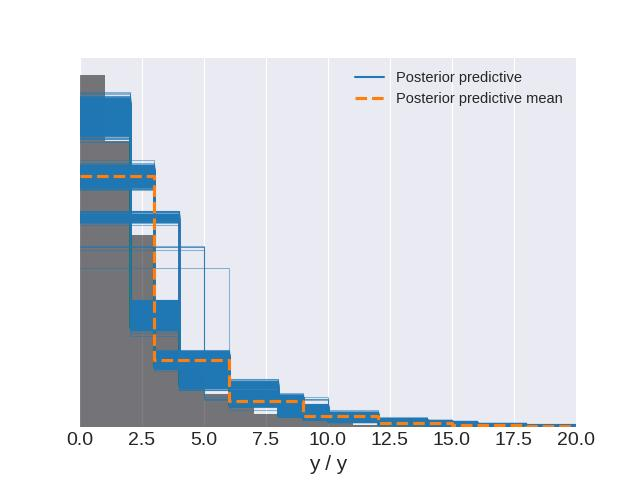
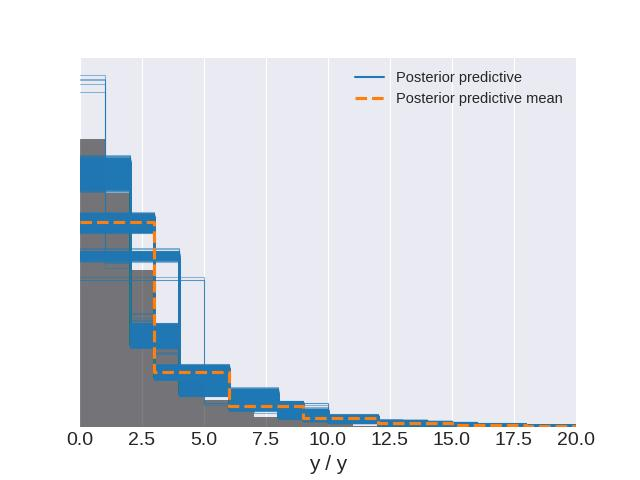
Improvement count example

Changed region(s): [[0.125, 0.1562, 0.9062, 0.9062]]

diff --git a/_site/count_data/index.html b/_site/count_data/index.html
@@ -238,10 +238,44 @@ Bernoulli process with success probability $p$ before a given number of subseque
 <p>As an example, I used this model to investigate the number of retweets of a particular
 twitter account:</p>
 
+<div class="language-python highlighter-rouge"><div class="highlight"><pre class="highlight"><code><span class="n">df_twitter</span> <span class="o">=</span> <span class="n">pd</span><span class="p">.</span><span class="nf">read_csv</span><span class="p">(</span><span class="sh">'</span><span class="s">data/data_twitter.csv</span><span class="sh">'</span><span class="p">)</span>
+<span class="n">fig</span> <span class="o">=</span> <span class="n">plt</span><span class="p">.</span><span class="nf">figure</span><span class="p">()</span>
+<span class="n">ax</span> <span class="o">=</span> <span class="n">fig</span><span class="p">.</span><span class="nf">add_subplot</span><span class="p">()</span>
+<span class="n">sns</span><span class="p">.</span><span class="nf">histplot</span><span class="p">(</span><span class="n">data</span><span class="o">=</span><span class="n">df_tweets</span><span class="p">,</span> <span class="n">x</span><span class="o">=</span><span class="sh">"</span><span class="s">retweets_count</span><span class="sh">"</span><span class="p">,</span> <span class="n">ax</span><span class="o">=</span><span class="n">ax</span><span class="p">,</span> <span class="n">bins</span> <span class="o">=</span> <span class="n">np</span><span class="p">.</span><span class="nf">arange</span><span class="p">(</span><span class="mi">0</span><span class="p">,</span> <span class="mi">30</span><span class="p">))</span>
+<span class="n">ax</span><span class="p">.</span><span class="nf">set_xlim</span><span class="p">([</span><span class="mi">0</span><span class="p">,</span> <span class="mi">30</span><span class="p">])</span>
+</code></pre></div></div>
+
 <p><img src="/docs/assets/images/twitter_data.jpg" alt="Hurricanes ppc" /></p>
 
-<div class="language-python highlighter-rouge"><div class="highlight"><pre class="highlight"><code><span class="n">df_twitter</span> <span class="o">=</span> <span class="n">pd</span><span class="p">.</span><span class="nf">read_csv</span><span class="p">(</span><span class="sh">'</span><span class="s">data/data_twitter.csv</span><span class="sh">'</span><span class="p">)</span>
-<span class="k">with</span> <span class="n">pm</span><span class="p">.</span><span class="nc">Model</span><span class="p">()</span> <span class="k">as</span> <span class="n">negbin</span><span class="p">:</span>
+<p>Let us first of all try and see if the Poisson model is a suitable candidate to describe our data:</p>
+
+<div class="language-python highlighter-rouge"><div class="highlight"><pre class="highlight"><code><span class="k">with</span> <span class="n">pm</span><span class="p">.</span><span class="nc">Model</span><span class="p">()</span> <span class="k">as</span> <span class="n">poisson_twitter</span><span class="p">:</span>
+    <span class="n">mu</span> <span class="o">=</span> <span class="n">pm</span><span class="p">.</span><span class="nc">Exponential</span><span class="p">(</span><span class="sh">'</span><span class="s">mu</span><span class="sh">'</span><span class="p">,</span> <span class="n">lam</span><span class="o">=</span><span class="mi">1</span><span class="p">)</span>
+    <span class="n">y</span> <span class="o">=</span> <span class="n">pm</span><span class="p">.</span><span class="nc">Poisson</span><span class="p">(</span><span class="sh">'</span><span class="s">y</span><span class="sh">'</span><span class="p">,</span> <span class="n">mu</span><span class="o">=</span><span class="n">mu</span><span class="p">,</span> <span class="n">observed</span><span class="o">=</span><span class="n">df_count</span><span class="p">[</span><span class="sh">'</span><span class="s">retweets_count</span><span class="sh">'</span><span class="p">])</span>
+    <span class="n">trace_poisson_twitter</span> <span class="o">=</span> <span class="n">pm</span><span class="p">.</span><span class="nf">sample</span><span class="p">(</span><span class="n">draws</span><span class="o">=</span><span class="mi">2000</span><span class="p">,</span> <span class="n">tune</span><span class="o">=</span><span class="mi">2000</span><span class="p">,</span> <span class="n">chains</span><span class="o">=</span><span class="mi">4</span><span class="p">)</span>
+    <span class="n">az</span><span class="p">.</span><span class="nf">plot_trace</span><span class="p">(</span><span class="n">trace_poisson_twitter</span><span class="p">)</span>
+</code></pre></div></div>
+
+<p><img src="/docs/assets/images/negbin_check_trace.jpg" alt="NegativeBinomial check trace" /></p>
+
+<p>Let us now sample the posterior predictive and see if it describes the data:</p>
+
+<div class="language-python highlighter-rouge"><div class="highlight"><pre class="highlight"><code><span class="k">with</span> <span class="n">poisson_twitter</span><span class="p">:</span>
+    <span class="n">ppc_poisson_twitter</span> <span class="o">=</span> <span class="n">pm</span><span class="p">.</span><span class="nf">sample_posterior_predictive</span><span class="p">(</span><span class="n">trace_poisson_twitter</span><span class="p">)</span>
+
+<span class="n">fig</span> <span class="o">=</span> <span class="n">plt</span><span class="p">.</span><span class="nf">figure</span><span class="p">()</span>
+<span class="n">ax</span> <span class="o">=</span> <span class="n">fig</span><span class="p">.</span><span class="nf">add_subplot</span><span class="p">()</span>
+<span class="n">az</span><span class="p">.</span><span class="nf">plot_ppc</span><span class="p">(</span><span class="n">ppc_poisson_twitter</span><span class="p">,</span> <span class="n">ax</span><span class="o">=</span><span class="n">ax</span><span class="p">,</span> <span class="n">observed</span><span class="o">=</span><span class="bp">False</span><span class="p">,</span> <span class="n">alpha</span><span class="o">=</span><span class="mf">0.5</span><span class="p">)</span>
+<span class="n">ax</span><span class="p">.</span><span class="nf">hist</span><span class="p">(</span><span class="n">df_count</span><span class="p">[</span><span class="sh">'</span><span class="s">retweets_count</span><span class="sh">'</span><span class="p">],</span> <span class="n">color</span><span class="o">=</span><span class="sh">'</span><span class="s">k</span><span class="sh">'</span><span class="p">,</span> <span class="n">alpha</span><span class="o">=</span><span class="mf">0.5</span><span class="p">,</span> <span class="n">density</span><span class="o">=</span><span class="bp">True</span><span class="p">,</span> <span class="n">bins</span><span class="o">=</span><span class="n">np</span><span class="p">.</span><span class="nf">arange</span><span class="p">(</span><span class="mi">0</span><span class="p">,</span> <span class="mi">20</span><span class="p">),</span> <span class="n">label</span><span class="o">=</span><span class="sh">'</span><span class="s">Observed</span><span class="sh">'</span><span class="p">)</span>
+<span class="n">ax</span><span class="p">.</span><span class="nf">set_xlim</span><span class="p">([</span><span class="mi">0</span><span class="p">,</span> <span class="mi">20</span><span class="p">])</span>
+</code></pre></div></div>
+
+<p><img src="/docs/assets/images/negbin_check_ppc.jpg" alt="NegativeBinomial check ppc" /></p>
+
+<p>Our model clearly fails to reproduce the data, we should therefore try with a more appropriate one,
+and we will use the negative binomial model.</p>
+
+<div class="language-python highlighter-rouge"><div class="highlight"><pre class="highlight"><code><span class="k">with</span> <span class="n">pm</span><span class="p">.</span><span class="nc">Model</span><span class="p">()</span> <span class="k">as</span> <span class="n">negbin</span><span class="p">:</span>
     <span class="n">p</span> <span class="o">=</span> <span class="n">pm</span><span class="p">.</span><span class="nc">Uniform</span><span class="p">(</span><span class="sh">'</span><span class="s">p</span><span class="sh">'</span><span class="p">,</span> <span class="n">lower</span><span class="o">=</span><span class="mi">0</span><span class="p">,</span> <span class="n">upper</span><span class="o">=</span><span class="mi">1</span><span class="p">)</span>
     <span class="n">n</span> <span class="o">=</span> <span class="n">pm</span><span class="p">.</span><span class="nc">Exponential</span><span class="p">(</span><span class="sh">'</span><span class="s">n</span><span class="sh">'</span><span class="p">,</span> <span class="n">lam</span><span class="o">=</span><span class="mf">0.1</span><span class="p">)</span>
     <span class="n">y</span> <span class="o">=</span> <span class="n">pm</span><span class="p">.</span><span class="nc">NegativeBinomial</span><span class="p">(</span><span class="sh">'</span><span class="s">y</span><span class="sh">'</span><span class="p">,</span> <span class="n">p</span><span class="o">=</span><span class="n">p</span><span class="p">,</span> <span class="n">n</span><span class="o">=</span><span class="n">n</span><span class="p">,</span> <span class="n">observed</span><span class="o">=</span><span class="n">df_twitter</span><span class="p">[</span><span class="sh">'</span><span class="s">retweets_count</span><span class="sh">'</span><span class="p">])</span>
@@ -281,7 +315,24 @@ as independent quantities was needed</p>
   <p>10.3115</p>
 </blockquote>
 
-<p>They differ by a factor of $4\,,$ so we were right.</p>
+<p>They differ by a factor of $4\,,$ so we were right.
+In fact, if we compare these quantities with the corresponding quantities obtained from the Poisson model:</p>
+
+<div class="language-python highlighter-rouge"><div class="highlight"><pre class="highlight"><code><span class="n">ppc_poisson_twitter</span><span class="p">.</span><span class="n">posterior_predictive</span><span class="p">[</span><span class="sh">'</span><span class="s">y</span><span class="sh">'</span><span class="p">].</span><span class="n">values</span><span class="p">.</span><span class="nf">reshape</span><span class="p">(</span><span class="o">-</span><span class="mi">1</span><span class="p">).</span><span class="nf">mean</span><span class="p">()</span>
+</code></pre></div></div>
+<blockquote>
+  <p>2.26458</p>
+</blockquote>
+
+<div class="language-python highlighter-rouge"><div class="highlight"><pre class="highlight"><code><span class="n">ppc_poisson_twitter</span><span class="p">.</span><span class="n">posterior_predictive</span><span class="p">[</span><span class="sh">'</span><span class="s">y</span><span class="sh">'</span><span class="p">].</span><span class="n">values</span><span class="p">.</span><span class="nf">reshape</span><span class="p">(</span><span class="o">-</span><span class="mi">1</span><span class="p">).</span><span class="nf">var</span><span class="p">()</span>
+</code></pre></div></div>
+<blockquote>
+  <p>2.26458</p>
+</blockquote>
+
+<p>As expected, the Poisson model predicts equal mean and variance for $y\,,$
+while our data clearly shows overdispersion, as the variance is much larger than the mean,
+making the negative binomial model a better candidate to describe our data.</p>
 
   </div>
 

diff --git a/_site/2023/08/09/intro-when-go-bayesian.html b/_site/2023/08/09/intro-when-go-bayesian.html
@@ -8,8 +8,8 @@
 <meta property="og:title" content="Why (and when) should you go for Bayesian" />
 <meta name="author" content="Stippe" />
 <meta property="og:locale" content="en_US" />
-<meta name="description" content="I feel quite a pragmatic person, so I think that one should choose the tool depending on the needs rather than by relying on some personal believes. Bayesian statistics allows to build custom and structured models by simply specifying the data generating process. The model can be divided into two parts: The likelihood $P(y \vert \theta)$, which determines how the data we want to model $y$ are generated given the parameter(s) $\theta$. The priors $P(\theta)$, which specifies our initial hypothesis about the distribution of the parameters of the model." />
-<meta property="og:description" content="I feel quite a pragmatic person, so I think that one should choose the tool depending on the needs rather than by relying on some personal believes. Bayesian statistics allows to build custom and structured models by simply specifying the data generating process. The model can be divided into two parts: The likelihood $P(y \vert \theta)$, which determines how the data we want to model $y$ are generated given the parameter(s) $\theta$. The priors $P(\theta)$, which specifies our initial hypothesis about the distribution of the parameters of the model." />
+<meta name="description" content="I feel I am quite a pragmatic person, so I prefer choosing my tools depending on my needs rather than by relying on some personal believes. Bayesian statistics allows you to build custom and structured models by simply specifying the data generating process. The model can be divided into two parts: The likelihood $P(y \vert \theta)$, which determines how the data you want to model $y$ are generated given the parameter(s) $\theta$. The priors $P(\theta)$, which specifies your initial hypothesis about the distribution of the parameters of the model." />
+<meta property="og:description" content="I feel I am quite a pragmatic person, so I prefer choosing my tools depending on my needs rather than by relying on some personal believes. Bayesian statistics allows you to build custom and structured models by simply specifying the data generating process. The model can be divided into two parts: The likelihood $P(y \vert \theta)$, which determines how the data you want to model $y$ are generated given the parameter(s) $\theta$. The priors $P(\theta)$, which specifies your initial hypothesis about the distribution of the parameters of the model." />
 <link rel="canonical" href="http://localhost:4000/2023/08/09/intro-when-go-bayesian.html" />
 <meta property="og:url" content="http://localhost:4000/2023/08/09/intro-when-go-bayesian.html" />
 <meta property="og:site_name" content="Just another Bayesian enthusiast" />
@@ -18,7 +18,7 @@
 <meta name="twitter:card" content="summary" />
 <meta property="twitter:title" content="Why (and when) should you go for Bayesian" />
 <script type="application/ld+json">
-{"@context":"https://schema.org","@type":"BlogPosting","author":{"@type":"Person","name":"Stippe"},"dateModified":"2023-08-09T00:00:00+02:00","datePublished":"2023-08-09T00:00:00+02:00","description":"I feel quite a pragmatic person, so I think that one should choose the tool depending on the needs rather than by relying on some personal believes. Bayesian statistics allows to build custom and structured models by simply specifying the data generating process. The model can be divided into two parts: The likelihood $P(y \\vert \\theta)$, which determines how the data we want to model $y$ are generated given the parameter(s) $\\theta$. The priors $P(\\theta)$, which specifies our initial hypothesis about the distribution of the parameters of the model.","headline":"Why (and when) should you go for Bayesian","mainEntityOfPage":{"@type":"WebPage","@id":"http://localhost:4000/2023/08/09/intro-when-go-bayesian.html"},"url":"http://localhost:4000/2023/08/09/intro-when-go-bayesian.html"}</script>
+{"@context":"https://schema.org","@type":"BlogPosting","author":{"@type":"Person","name":"Stippe"},"dateModified":"2023-08-09T00:00:00+02:00","datePublished":"2023-08-09T00:00:00+02:00","description":"I feel I am quite a pragmatic person, so I prefer choosing my tools depending on my needs rather than by relying on some personal believes. Bayesian statistics allows you to build custom and structured models by simply specifying the data generating process. The model can be divided into two parts: The likelihood $P(y \\vert \\theta)$, which determines how the data you want to model $y$ are generated given the parameter(s) $\\theta$. The priors $P(\\theta)$, which specifies your initial hypothesis about the distribution of the parameters of the model.","headline":"Why (and when) should you go for Bayesian","mainEntityOfPage":{"@type":"WebPage","@id":"http://localhost:4000/2023/08/09/intro-when-go-bayesian.html"},"url":"http://localhost:4000/2023/08/09/intro-when-go-bayesian.html"}</script>
 <!-- End Jekyll SEO tag -->
 <link rel="stylesheet" href="/assets/css/style.css"><link type="application/atom+xml" rel="alternate" href="http://localhost:4000/feed.xml" title="Just another Bayesian enthusiast" />
 
@@ -60,19 +60,20 @@
   </header>
 
   <div class="post-content">
-    <p>I feel quite a pragmatic person, so I think that one should choose the tool depending on the needs rather than by relying on some personal believes.
-Bayesian statistics allows to build custom and structured models by simply specifying the data generating process.
+    <p>I feel I am quite a pragmatic person, so I prefer choosing my tools depending on my needs rather than by relying on some personal believes.
+Bayesian statistics allows you to build custom and structured models by simply specifying the data generating process.
 The model can be divided into two parts:</p>
 <ul>
-  <li>The likelihood $P(y \vert \theta)$, which determines how the data we want to model $y$ are generated given the parameter(s) $\theta$.</li>
-  <li>The priors $P(\theta)$, which specifies our initial hypothesis about the distribution of the parameters of the model.</li>
+  <li>The likelihood $P(y \vert \theta)$, which determines how the data you want to model $y$ are generated given the parameter(s) $\theta$.</li>
+  <li>The priors $P(\theta)$, which specifies your initial hypothesis about the distribution of the parameters of the model.</li>
 </ul>
 
 <p>The only mathematical requirements for both the likelihood and for the priors is that they are non-negative and sum up to one.
-There is a huge literature about the model building, and one can easily start by using one of the already available models and adapt it
-to the problem under study.</p>
+There is a huge literature about the model building, and you can easily start by using one of the already available models and adapt it
+to your problem.</p>
 
-<p>Once that the model is built one samples the entire posterior probability distribution,
+<p>Once that the model is specified you can use $PyMC$ or any other Probabilistic Programming Language
+sample the entire posterior probability distribution,
 which is determined by means of Bayes theorem.</p>
 
 \[P(\theta \vert y) = \frac{P(y \vert \theta) P(\theta)}{P(y)} \propto  P(y \vert \theta) P(\theta)\]

diff --git a/_posts/2023-08-14-poisson.md b/_posts/2023-08-14-poisson.md
@@ -163,10 +163,47 @@ $$P(k \vert p, r) \propto (1-p)^k p^r$$
 As an example, I used this model to investigate the number of retweets of a particular
 twitter account:
 
-![Hurricanes ppc](/docs/assets/images/twitter_data.jpg)
-
 ```python
 df_twitter = pd.read_csv('data/data_twitter.csv')
+fig = plt.figure()
+ax = fig.add_subplot()
+sns.histplot(data=df_tweets, x="retweets_count", ax=ax, bins = np.arange(0, 30))
+ax.set_xlim([0, 30])
+```
+
+![Hurricanes ppc](/docs/assets/images/twitter_data.jpg)
+
+Let us first of all try and see if the Poisson model is a suitable candidate to describe our data:
+
+```python
+with pm.Model() as poisson_twitter:
+    mu = pm.Exponential('mu', lam=1)
+    y = pm.Poisson('y', mu=mu, observed=df_count['retweets_count'])
+    trace_poisson_twitter = pm.sample(draws=2000, tune=2000, chains=4)
+    az.plot_trace(trace_poisson_twitter)
+```
+
+![NegativeBinomial check trace](/docs/assets/images/negbin_check_trace.jpg)
+
+Let us now sample the posterior predictive and see if it describes the data:
+
+```python
+with poisson_twitter:
+    ppc_poisson_twitter = pm.sample_posterior_predictive(trace_poisson_twitter)
+
+fig = plt.figure()
+ax = fig.add_subplot()
+az.plot_ppc(ppc_poisson_twitter, ax=ax, observed=False, alpha=0.5)
+ax.hist(df_count['retweets_count'], color='k', alpha=0.5, density=True, bins=np.arange(0, 20), label='Observed')
+ax.set_xlim([0, 20])
+```
+
+![NegativeBinomial check ppc](/docs/assets/images/negbin_check_ppc.jpg)
+
+Our model clearly fails to reproduce the data, we should therefore try with a more appropriate one,
+and we will use the negative binomial model.
+
+```python
 with pm.Model() as negbin:
     p = pm.Uniform('p', lower=0, upper=1)
     n = pm.Exponential('n', lam=0.1)
@@ -208,3 +245,18 @@ ppc_negbin.posterior_predictive['y'].values.reshape(-1).var()
 > 10.3115
 
 They differ by a factor of $4\,,$ so we were right.
+In fact, if we compare these quantities with the corresponding quantities obtained from the Poisson model:
+
+```python
+ppc_poisson_twitter.posterior_predictive['y'].values.reshape(-1).mean()
+```
+> 2.26458
+
+```python
+ppc_poisson_twitter.posterior_predictive['y'].values.reshape(-1).var()
+```
+> 2.26458
+
+As expected, the Poisson model predicts equal mean and variance for $y\,,$
+while our data clearly shows overdispersion, as the variance is much larger than the mean,
+making the negative binomial model a better candidate to describe our data.
